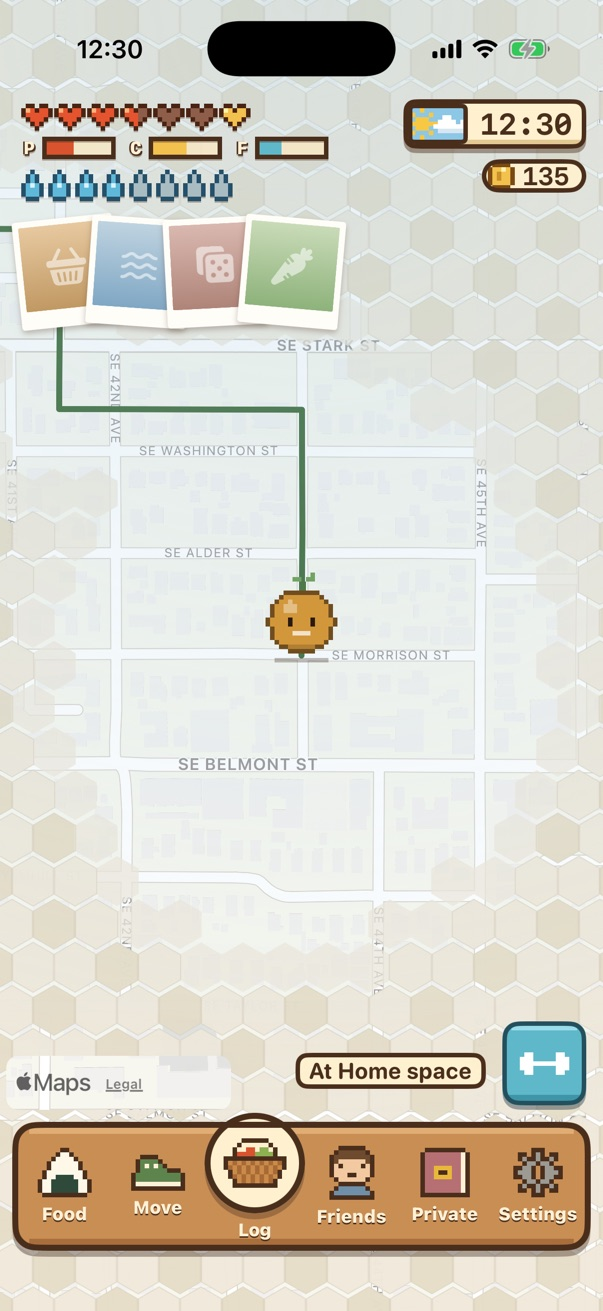
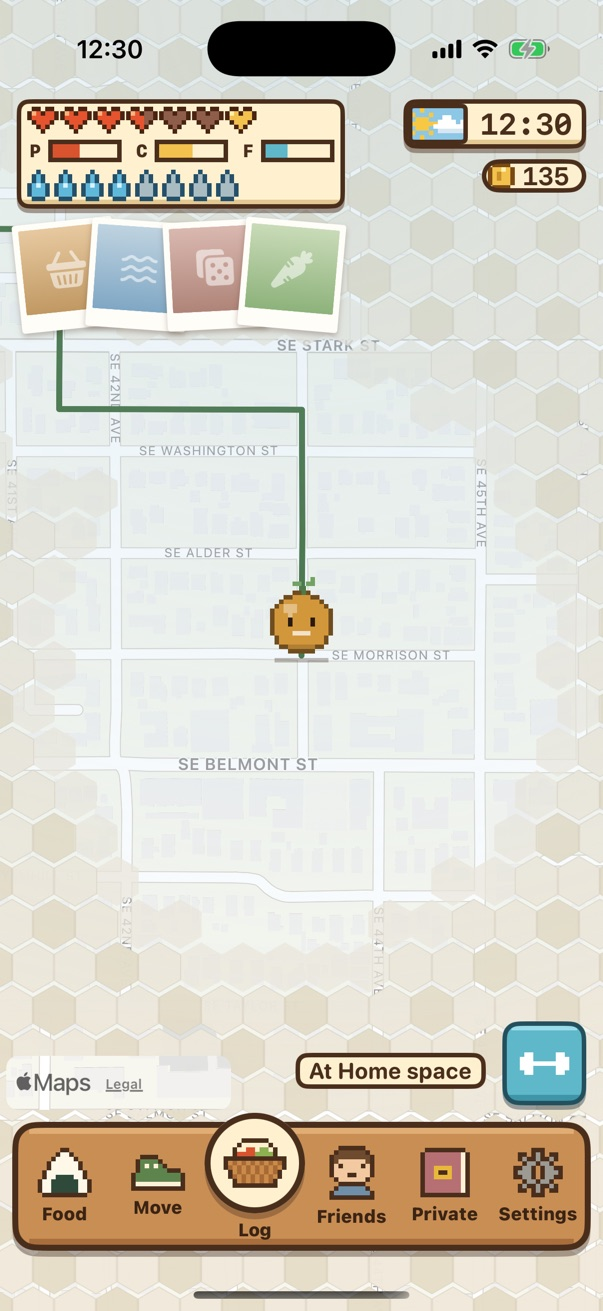
World shell text you can read: no shadow or outline on any text; every label one solid colour clearing WCAG AA on what is behind it (bark on wood 5.2:1, a lighter selected slot, the status bars on a cream plate, dark text on the teal quick-start row, a darker End), darker label colours and a lighter

diff --git a/Prototypes/WorldShell/WorldShell/Art/FernColors.swift b/Prototypes/WorldShell/WorldShell/Art/FernColors.swift
@@ -1,4 +1,5 @@
 import SwiftUI
+import UIKit
 
 /// Fernlet's palette for the world shell, in two families.
 ///
@@ -8,6 +9,12 @@ import SwiftUI
 /// colours match `CompanionState.color` in `ModelColors.swift` exactly. The game family is the warm
 /// autumn pixel palette of the status bar, item bar and blue button, from the design page
 /// "A World for Fernlet" (version 9). Prototype-only: the shipping app keeps its own tokens.
+///
+/// **Text gets no shadow or outline anywhere** (owner, 2026-10-23: the mockup's offset text shadows
+/// were hard to read). Every label is one solid colour that clears WCAG AA 4.5:1 against what is
+/// directly behind it, and the label colours are ``adaptive(_:increasedContrast:)``: under Increase
+/// Contrast they darken to clear 7:1, the target FernletUI's high-contrast palette uses. Measured
+/// pairs are noted beside each token.
 nonisolated enum FernColors {
     // App family (shipping light values).
     static let parchment = rgb(0xF5EFDF)
@@ -23,22 +30,36 @@ nonisolated enum FernColors {
     static let terracotta = rgb(0xB9543D)
     static let sun = rgb(0xEBB551)
     static let rule = Color(.sRGB, red: 0.239, green: 0.180, blue: 0.118, opacity: 0.13)
-    static let dim = rgb(0x6B5C4A)
+    /// Secondary text on cards: 6.0:1 on cream, 5.6:1 on parchment; 9.8 / 9.2 under Increase Contrast.
+    static let dim = adaptive(0x6B5C4A, increasedContrast: 0x4A3D2E)
 
     // Game family (design page).
-    static let ink = rgb(0x4A2E1C)
+    /// Plate borders and text on cream plates: 11.0:1 on the cream plate; 14.9:1 under Increase Contrast.
+    static let ink = adaptive(0x4A2E1C, increasedContrast: 0x2A1A10)
     static let gameCream = rgb(0xFFF1CF)
     static let gameCreamShade = rgb(0xE2C893)
     static let paper = rgb(0xFFF8E4)
-    static let wood = rgb(0xC98E54)
+    /// The item bar and panel title plates. Under Increase Contrast the wood lightens a step so
+    /// the label on it clears 7:1.
+    static let wood = adaptive(0xC98E54, increasedContrast: 0xD9A066)
     static let woodDark = rgb(0xA86E3C)
     static let woodLight = rgb(0xE0AE74)
-    static let woodLabel = rgb(0xFFF1D6)
+    /// The selected item-bar slot: lighter wood, so its label still clears AA (7.3:1; 10.9:1).
+    static let woodSelected = adaptive(0xE0AE74, increasedContrast: 0xEBC08A)
+    /// Names on the item bar and titles on the wood plates: 5.2:1 on wood; 8.0:1 under Increase Contrast.
+    static let woodLabel = adaptive(0x3A2414, increasedContrast: 0x1E120A)
     static let teal = rgb(0x5FB8C9)
     static let tealDark = rgb(0x24505E)
     static let tealShade = rgb(0x3F95A8)
     static let tealLight = rgb(0x9ADDEA)
-    static let speechInk = rgb(0x3A2414)
+    /// Text on the teal "go" row of the quick-start card: 6.4:1; 8.0:1 under Increase Contrast.
+    static let onTeal = adaptive(0x3A2414, increasedContrast: 0x1E120A)
+    /// Speech, quick-start rows and walk-bar text: 14.1:1 on the bubble.
+    static let speechInk = adaptive(0x3A2414, increasedContrast: 0x2A1A10)
+    /// Small notes on cream plates: 5.6:1; 8.4:1 under Increase Contrast.
+    static let noteInk = adaptive(0x7A5A3A, increasedContrast: 0x5E4024)
+    /// The walk bar's End button: white on rust, 6.2:1; 7.4:1 under Increase Contrast.
+    static let endButton = adaptive(0x9A4A31, increasedContrast: 0x8A3F28)
     static let toast = rgb(0x3D2E1E)
     static let toastAction = rgb(0xC8DBC2)
     static let fog = rgb(0xEFE8DA)
@@ -47,11 +68,27 @@ nonisolated enum FernColors {
     static let protein = rgb(0xD9532F)
     static let carbs = rgb(0xF2C14E)
     static let fat = rgb(0x5FB8C9)
-    static let walkBlue = rgb(0x2C5FA8)
+    /// "Precise location on for this walk": 5.7:1 on cream; 7.9:1 under Increase Contrast.
+    static let walkBlue = adaptive(0x2C5FA8, increasedContrast: 0x1F4A85)
 
     /// An opaque sRGB colour from a `0xRRGGBB` literal.
     static func rgb(_ hex: UInt32) -> Color {
         Color(.sRGB, red: Double((hex >> 16) & 0xFF) / 255, green: Double((hex >> 8) & 0xFF) / 255,
               blue: Double(hex & 0xFF) / 255, opacity: 1)
+    }
+
+    /// A colour that follows Increase Contrast, the way FernletUI's tokens do: the trait's
+    /// `accessibilityContrast` picks the value. The provider is `@Sendable` because UIKit may
+    /// resolve it off the main actor (see FernletUIComponents.swift).
+    static func adaptive(_ normal: UInt32, increasedContrast: UInt32) -> Color {
+        Color(UIColor { @Sendable trait in
+            uiColor(trait.accessibilityContrast == .high ? increasedContrast : normal)
+        })
+    }
+
+    /// An opaque UIKit colour from a `0xRRGGBB` literal.
+    private static func uiColor(_ hex: UInt32) -> UIColor {
+        UIColor(red: CGFloat((hex >> 16) & 0xFF) / 255, green: CGFloat((hex >> 8) & 0xFF) / 255,
+                blue: CGFloat(hex & 0xFF) / 255, alpha: 1)
     }
 }

diff --git a/Prototypes/WorldShell/WorldShell/HUD/ItemBar.swift b/Prototypes/WorldShell/WorldShell/HUD/ItemBar.swift
@@ -3,6 +3,10 @@ import SwiftUI
 /// The item bar: today's tabs as a wooden game bar. Food, Move, Log (raised, in the centre),
 /// Friends, Private and Settings, each with its name small under the icon (answer 9), so Voice
 /// Control can say any of them.
+///
+/// The bar's wood, edges and outline are all drawn in its background, so the raised Log disc sits
+/// on top of the bar's border, as a child paints over its parent's border in the mockup. Names are
+/// solid bark on wood (5.2:1), with no shadow.
 struct ItemBar: View {
     let open: PanelKind?
     let action: (PanelKind) -> Void
@@ -45,8 +49,8 @@ struct ItemBar: View {
                     RoundedRectangle(cornerRadius: radius)
                         .fill(Color(.sRGB, red: 0.157, green: 0.078, blue: 0.031, opacity: 0.35)).offset(y: border)
                 }
+                .overlay(RoundedRectangle(cornerRadius: radius).strokeBorder(FernColors.ink, lineWidth: border))
         }
-        .overlay(RoundedRectangle(cornerRadius: radius).strokeBorder(FernColors.ink, lineWidth: border))
     }
 
     /// One slot: the pixel icon (Log's on a raised cream disc) over its small name.
@@ -70,14 +74,13 @@ struct ItemBar: View {
             Text(item.name)
                 .font(.system(size: metrics.pt(9), weight: .heavy))
                 .foregroundStyle(FernColors.woodLabel)
-                .shadow(color: FernColors.ink, radius: 0, x: 0, y: 1)
                 .lineLimit(1)
                 .minimumScaleFactor(0.8)
         }
         .frame(maxWidth: .infinity, minHeight: metrics.pt(52))
         .background {
             if open == item.kind && item.kind != .log {
-                RoundedRectangle(cornerRadius: metrics.pt(8)).fill(FernColors.woodDark)
+                RoundedRectangle(cornerRadius: metrics.pt(8)).fill(FernColors.woodSelected)
             }
         }
         .contentShape(Rectangle())

diff --git a/Prototypes/WorldShell/WorldShell/HUD/StatusBarLeft.swift b/Prototypes/WorldShell/WorldShell/HUD/StatusBarLeft.swift
@@ -5,6 +5,9 @@ import SwiftUI
 ///
 /// The hearts are HealthBar's twelve segments, two to a heart, so nothing is lost (design page,
 /// answer "Hearts fit one line"). VoiceOver hears today's sentence, "Care score 58 percent".
+///
+/// It sits on a cream plate like the clock and coins, so the P / C / F letters are solid ink on
+/// cream (11:1) wherever the map is, with no text shadow.
 struct StatusBarLeft: View {
     let careScore: Double
     let goldHearts: Int
@@ -32,10 +35,10 @@ struct StatusBarLeft: View {
                         PixelSpriteView(sprite: index < water ? PixelSprites.drop : PixelSprites.emptyDrop)
                     }
                 }
-                .padding(.top, metrics.pt(2))
+                .padding(.top, metrics.pt(1))
             }
-            .padding(metrics.pt(2))
-            .shadow(color: FernColors.ink.opacity(0.35), radius: 0, x: 0, y: 1)
+            .padding(EdgeInsets(top: metrics.pt(4), leading: metrics.pt(5), bottom: metrics.pt(4), trailing: metrics.pt(5)))
+            .gamePlate(cornerRadius: metrics.pt(6), border: metrics.pt(2))
         }
         .buttonStyle(.plain)
         .accessibilityElement(children: .ignore)
@@ -75,9 +78,7 @@ private struct MacroPip: View {
         HStack(spacing: metrics.pt(2)) {
             Text(letter)
                 .font(.system(size: metrics.pt(9), weight: .heavy, design: .monospaced))
-                .foregroundStyle(FernColors.woodLabel)
-                .shadow(color: FernColors.ink, radius: 0, x: 1, y: 1)
-                .shadow(color: FernColors.ink, radius: 0, x: -1, y: 0)
+                .foregroundStyle(FernColors.ink)
                 .frame(width: metrics.pt(8))
             ZStack(alignment: .leading) {
                 Rectangle().fill(FernColors.gameCream.opacity(0.85))

diff --git a/Prototypes/WorldShell/WorldShell/HUD/Notices.swift b/Prototypes/WorldShell/WorldShell/HUD/Notices.swift
@@ -37,7 +37,7 @@ struct BannerView: View {
                 .overlay(Circle().strokeBorder(FernColors.ink, lineWidth: metrics.pt(2)))
             VStack(alignment: .leading, spacing: 1) {
                 Text(banner.title).font(.system(size: metrics.pt(13), weight: .bold, design: .rounded)).foregroundStyle(FernColors.ink)
-                Text(banner.subtitle).font(.system(size: metrics.pt(11))).foregroundStyle(FernColors.rgb(0x7A5A3A))
+                Text(banner.subtitle).font(.system(size: metrics.pt(11))).foregroundStyle(FernColors.noteInk)
             }
             Spacer(minLength: 0)
         }
@@ -76,9 +76,9 @@ struct WalkBar: View {
             Spacer(minLength: 0)
             Button("End", action: onEnd)
                 .font(.system(size: metrics.pt(12), weight: .bold))
-                .foregroundStyle(FernColors.woodLabel)
+                .foregroundStyle(Color.white)
                 .padding(EdgeInsets(top: metrics.pt(4), leading: metrics.pt(10), bottom: metrics.pt(4), trailing: metrics.pt(10)))
-                .background(FernColors.rgb(0xB05A3E), in: RoundedRectangle(cornerRadius: metrics.pt(6)))
+                .background(FernColors.endButton, in: RoundedRectangle(cornerRadius: metrics.pt(6)))
                 .overlay(RoundedRectangle(cornerRadius: metrics.pt(6)).strokeBorder(FernColors.ink, lineWidth: metrics.pt(2)))
         }
         .padding(EdgeInsets(top: metrics.pt(5), leading: metrics.pt(10), bottom: metrics.pt(5), trailing: metrics.pt(6)))

diff --git a/Prototypes/WorldShell/WorldShell/HUD/QuickStartControls.swift b/Prototypes/WorldShell/WorldShell/HUD/QuickStartControls.swift
@@ -100,7 +100,7 @@ struct QuickStartCard: View {
     private func note(_ text: String) -> some View {
         Text(text)
             .font(.system(size: metrics.pt(11.5)))
-            .foregroundStyle(FernColors.rgb(0x7A5A3A))
+            .foregroundStyle(FernColors.noteInk)
             .fixedSize(horizontal: false, vertical: true)
     }
 
@@ -117,7 +117,7 @@ struct QuickStartCard: View {
             .multilineTextAlignment(.leading)
             Spacer(minLength: 0)
         }
-        .foregroundStyle(primary ? Color.white : FernColors.speechInk)
+        .foregroundStyle(primary ? FernColors.onTeal : FernColors.speechInk)
         .padding(EdgeInsets(top: metrics.pt(6), leading: metrics.pt(8), bottom: metrics.pt(6), trailing: metrics.pt(8)))
         .background(primary ? FernColors.teal : FernColors.paper, in: RoundedRectangle(cornerRadius: metrics.pt(8)))
         .overlay(RoundedRectangle(cornerRadius: metrics.pt(8)).strokeBorder(FernColors.ink, lineWidth: metrics.pt(2)))

diff --git a/Prototypes/WorldShell/WorldShell/Map/WorldMapStack.swift b/Prototypes/WorldShell/WorldShell/Map/WorldMapStack.swift
@@ -28,9 +28,9 @@ struct WorldMapStack: View {
                 if model.baseMap == .plain {
                     Text(PlainBaseMap().creditText ?? "")
                         .font(.system(size: 12, weight: .semibold))
-                        .foregroundStyle(FernColors.speechInk.opacity(0.8))
-                        .padding(EdgeInsets(top: 1, leading: 5, bottom: 1, trailing: 5))
-                        .background(FernColors.gameCream.opacity(0.7), in: RoundedRectangle(cornerRadius: 4))
+                        .foregroundStyle(FernColors.speechInk)
+                        .padding(EdgeInsets(top: 2, leading: 6, bottom: 2, trailing: 6))
+                        .background(FernColors.gameCream, in: RoundedRectangle(cornerRadius: 4))
                         .padding(.leading, 12)
                         .padding(.bottom, creditInset + 6)
                         .frame(maxWidth: .infinity, maxHeight: .infinity, alignment: .bottomLeading)

diff --git a/Prototypes/WorldShell/WorldShell/Panels/PanelFrame.swift b/Prototypes/WorldShell/WorldShell/Panels/PanelFrame.swift
@@ -17,7 +17,6 @@ struct PanelFrame<Content: View>: View {
                 Text(kind.title)
                     .font(.system(size: metrics.pt(16), weight: .bold, design: .rounded))
                     .foregroundStyle(FernColors.woodLabel)
-                    .shadow(color: FernColors.ink, radius: 0, x: 0, y: 1)
                     .accessibilityAddTraits(.isHeader)
                 Spacer()
                 GameCloseButton(action: onClose)

diff --git a/Prototypes/WorldShell/README.md b/Prototypes/WorldShell/README.md
@@ -37,6 +37,28 @@ every screen and base map.
 `Screenshots/00-home-vs-mockup.jpg` shows the mockup's Home and the shell's Home side by side at the
 same width. The mockup half is rendered from the design page's own HTML at 402 pt.
 
+## Text you can read
+
+There's no shadow or outline on any text (owner, 2026-10-23). The mockup's offset text shadows on
+wood made labels hard to read. Every label is now one solid colour that clears WCAG AA 4.5:1
+against what's directly behind it. The pairs are listed in `Art/FernColors.swift`:
+
+- **Item bar names and panel titles:** bark `#3A2414` on wood, 5.2:1. The selected item-bar slot
+  is lighter wood rather than darker, 7.3:1.
+- **Status bar:** the hearts, P / C / F bars and drops sit on a cream plate like the clock and
+  coins, so the letters are ink on cream, 11:1.
+- **Text over the map:** every piece sits on its own cream plate, including the offline credit.
+- **Two other fixes found while checking:** the quick-start card's teal row now uses dark text
+  (6.4:1; white was 2.3:1), and the walk bar's End is white on a darker rust (6.2:1; it was 4.3:1).
+
+Under **Increase Contrast** the label colours darken, and the wood lightens a step. Every label
+then clears 7:1, the target FernletUI's high-contrast palette uses. The colours are dynamic
+`UIColor`s keyed on `accessibilityContrast`, the same mechanism FernletUI uses. Drop shadows stay
+on shapes only: the plates, prints, sprites and map marks.
+
+The item bar draws its wood and outline in its background, so the raised Log disc sits on top of
+the bar's border with its own full 3 pt ring.
+
 ## What's real and what's fixture
 
 | Piece | In the shell |
@@ -137,6 +159,9 @@ shared "iPhone 17". To run it on a phone:
 | `13-customize-glasses.jpg` | Customize (also opened by holding the companion), with the pixel preview in round glasses |
 | `14-photo-wall.jpg` | The full photo wall the strip opens |
 | `15-sick-day-one.jpg` | Day one on a sick day at dawn: the blanket, no history, and "Resting counts today" |
+| `16-text-before-after.jpg` | Before and after removing text shadows: item bar, a panel title plate, the status bars |
+| `17-log-disc-before-after.jpg` | Close-up of the Log disc: before, the bar's outline crossed it; after, it sits on top |
+| `18-increase-contrast.jpg` | The same title plate, item bar and status bars, standard and with Increase Contrast |
 
 ## Known differences and limits
 
